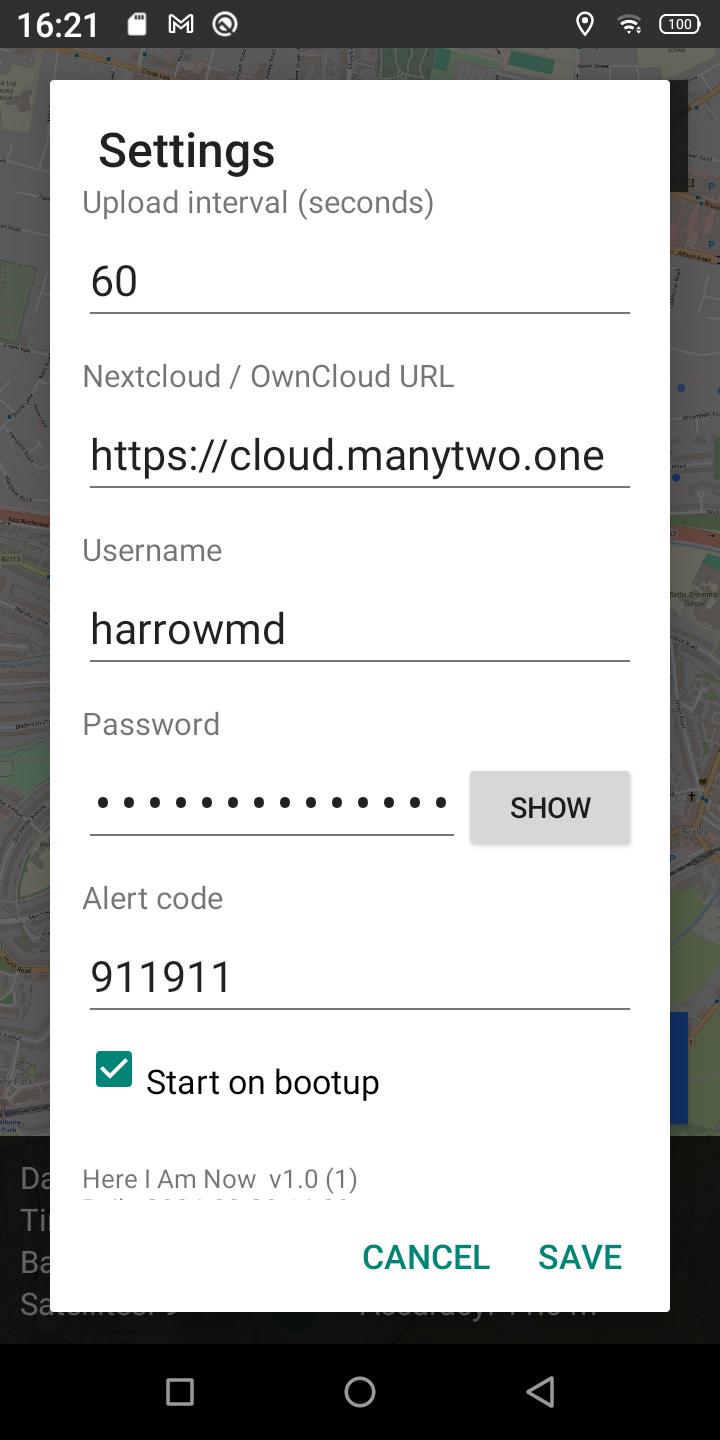
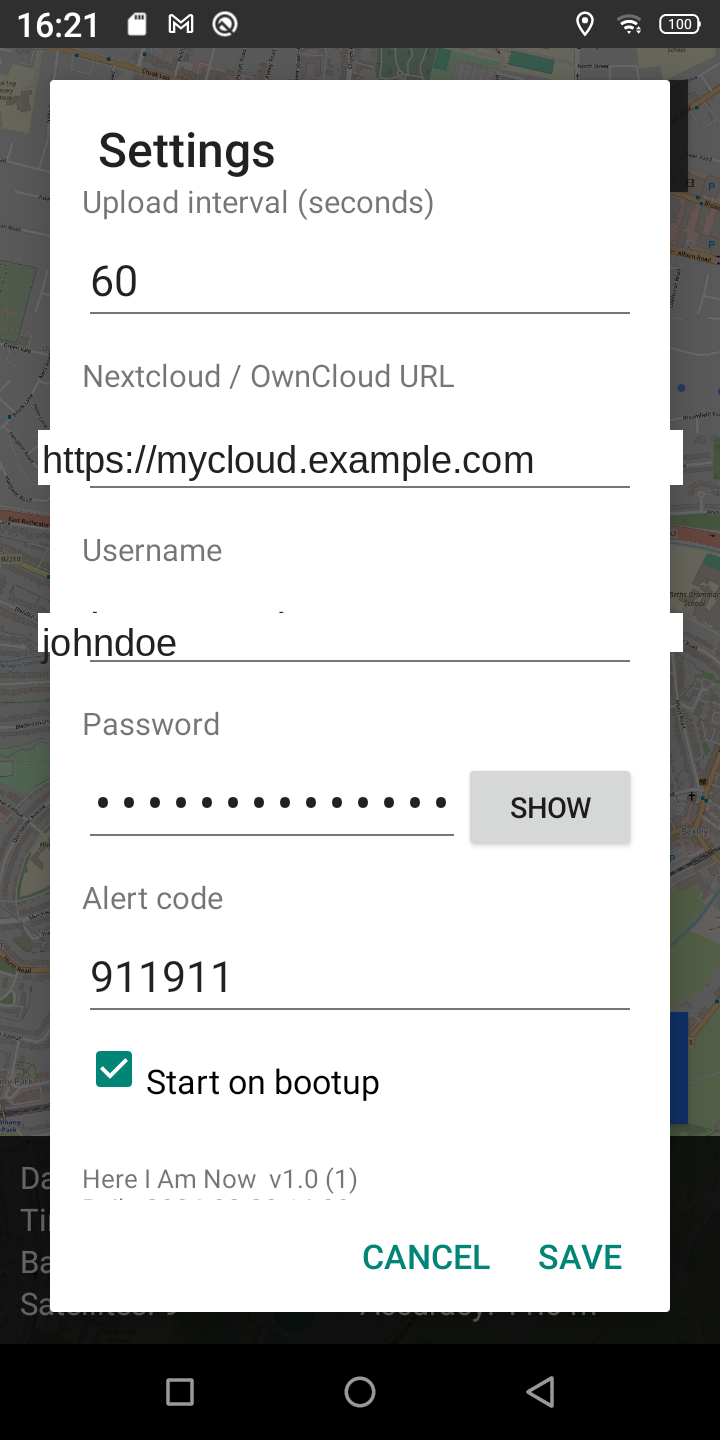
Update USERGUIDE: Marine mode, auto-recentre, new CSV columns; anonymise settings screenshots (v2.2)
- Section 3: expanded Data Overlay to cover Land vs Marine mode fields
  (Course/Depth replace Ascent/Alt in Marine; each field documented)
- Section 4: document auto-recentre (10% edge threshold) and OpenSeaMap tiles
- Section 5: add Map type setting with Land/Marine table and description
- Section 5: update Display period to mention Course
- Section 6: update CSV to 15-column format with full column table
- Build info: bump to v2.2 (13)
- screen_settings.png / screen_settings2.png: replace cloud.manytwo.one
  with mycloud.example.com and harrowmd with johndoe

diff --git a/HelloWorld/USERGUIDE.md b/HelloWorld/USERGUIDE.md
@@ -70,15 +70,27 @@ current coordinates. This keeps the background service alive.
 
 ## 3. Data Overlay
 
-A semi-transparent bar at the bottom of the screen shows live data.
-The three columns are updated at each **Update interval**:
+A semi-transparent bar at the bottom of the screen shows live data updated
+at each **Update interval**. The fields shown depend on the **Map type**
+setting.
+
+### Land mode (default)
 
 | Left column | Centre column | Right column (right-justified) |
 |-------------|---------------|-------------------------------|
 | `Dist: X.XX km` | Latitude | "What3Words" |
 | `Speed: X.X km/h` | Longitude | word 1 |
-| `Ascent: X m` | Altitude (m, integer) | word 2 |
-| Satellites in fix | Accuracy (m, integer) | word 3 |
+| `Ascent: X m` | Altitude (m) | word 2 |
+| Satellites in fix | Accuracy (m) | word 3 |
+
+### Marine mode
+
+| Left column | Centre column | Right column (right-justified) |
+|-------------|---------------|-------------------------------|
+| `Dist: X.XX km` | Latitude | "What3Words" |
+| `Speed: X.X km/h` | Longitude | word 1 |
+| `Course: XXX°` | Depth (m) | word 2 |
+| Satellites in fix | Accuracy (m) | word 3 |
 
 ### Dist (distance)
 Total distance in kilometres between consecutive GPS fixes recorded within
@@ -89,10 +101,24 @@ Resets when the service is restarted or when the display period rolls over.
 Average speed over the display period: **Dist ÷ Display period (hours)**,
 shown in km/h. This is a session-average speed, not instantaneous speed.
 
-### Ascent
+### Ascent *(Land mode only)*
 Cumulative altitude climbed (metres) within the display period. Only upward
 altitude changes of 5 m or more are counted, filtering out GPS altitude noise.
 Descents are ignored.
+
+### Alt *(Land mode only)*
+Altitude above sea level in metres, from the current GPS fix.
+
+### Course *(Marine mode only)*
+Average bearing in degrees (000°–360°) computed from the last four logged GPS
+positions using vector-averaged bearings. Shows `--` until at least two
+positions have been logged.
+
+### Depth *(Marine mode only)*
+Sea depth in metres, fetched from the GEBCO global bathymetric dataset via
+[opentopodata.org](https://api.opentopodata.org). Fetched at most once every
+15 minutes to respect the public API rate limit. Shows `--` on land, in
+shallow waters with no data, or when the lookup is unavailable.
 
 > Battery percentage is **not** shown on screen but is still recorded in the
 > log files at every GPS fix.
@@ -120,8 +146,12 @@ The blue location dot moves independently of the map centre — if you pan
 away to look at another area, the dot continues to show your real position.
 Tap ⊕ to return the view to your location.
 
-Map tiles are fetched from **OpenStreetMap** over the internet and cached
-while the app is running.
+**Auto-recentre:** while the app is in the foreground, the map automatically
+snaps back to your position whenever the GPS dot comes within 10% of any
+screen edge. This keeps you on screen without any manual interaction.
+
+Map tiles are fetched from **OpenStreetMap** (and **OpenSeaMap** in Marine
+mode) over the internet and cached while the app is running.
 
 **Pinch zoom tile loading:** while your fingers are on the screen the
 existing map tiles scale smoothly. New higher-resolution tiles are only
@@ -198,8 +228,8 @@ How far back in time the map trail of small blue dots extends.
 Default: `12` hours.
 
 This setting also defines the time window used to calculate **Dist**,
-**Speed**, and **Ascent** in the data overlay. Changing this value and
-tapping **Save** updates the map and all three figures immediately.
+**Speed**, **Ascent**, and **Course** in the data overlay. Changing this
+value and tapping **Save** updates the map and all figures immediately.
 
 ### Num GPS fixes
 How many GPS samples to collect and average for each logged position.
@@ -230,6 +260,21 @@ Default: `None` (no line, dots only).
 
 The line is drawn beneath the dots so the dots remain clearly visible.
 The selected colour is saved and restored when the app restarts.
+
+### Map type
+Controls the map tile source and the data overlay fields.
+
+| Option | Map tiles | Data overlay |
+|--------|-----------|--------------|
+| **Land** (default) | OpenStreetMap only | Ascent + Alt |
+| **Marine** | OSM base + OpenSeaMap nautical overlay | Course + Depth |
+
+In **Marine** mode a transparent nautical layer from
+[OpenSeaMap](https://www.openseamap.org) is rendered on top of the standard
+OSM base map, adding buoys, lights, depth contours, harbour marks, and other
+seamarks. The data overlay switches to show **Course** (average bearing from
+the last four GPS fixes) and **Depth** (GEBCO bathymetric data, fetched at
+most every 15 minutes).
 
 ### Log file retention (days)
 How many days of log files to keep, both on the device and on Nextcloud.
@@ -284,7 +329,7 @@ folder (`Internal Storage / Documents`):
 
 | File | Format | Contents |
 |------|--------|----------|
-| `YYYY-MM-DD-hia.csv` | CSV | One row per GPS fix: timestamp, lat, lon, alt, accuracy, satellites, battery, What3Words link |
+| `YYYY-MM-DD-hia.csv` | CSV | One row per GPS fix — 15 columns including position, derived metrics, and What3Words |
 | `YYYY-MM-DD-hia.gpx` | GPX 1.1 | GPS track, suitable for mapping software and OSM GPS Traces |
 | `YYYY-MM-DD-hia.kml` | KML 2.2 | GPS track with both a route line and individual waypoints |
 | `YYYY-MM-DD-hia.txt` | Plain text | Debug and status log, including What3Words lookup results |
@@ -296,13 +341,32 @@ and Nextcloud.
 ### CSV format
 
 ```
-timestamp,date,time,latitude,longitude,altitude_m,accuracy_m,satellites,battery_pct,what3words
-2026-02-28 14:18:40,2026-02-28,14:18:40,51.444040,0.143970,-149.0,16.1,6,100,https://w3w.co/word1.word2.word3
+timestamp,date,time,latitude,longitude,distance_km,speed_kmh,course_deg,depth_m,altitude_m,ascent_m,accuracy_m,satellites,battery_pct,what3words
[phone redacted]:18:40,2026-02-28,14:18:40,51.444040,0.143970,1.24,0.1,247.3,,42.0,8.5,5.2,7,85,https://w3w.co/word1.word2.word3
 ```
 
-The `what3words` column contains a clickable link in the format
-`https://w3w.co/word1.word2.word3`. The cell is empty if the lookup failed
-or has not yet completed for that fix.
+| Column | Description |
+|--------|-------------|
+| `timestamp` | Full date and time of the fix (`YYYY-MM-DD HH:MM:SS`) |
+| `date` | Date only |
+| `time` | Time only |
+| `latitude` | Decimal degrees |
+| `longitude` | Decimal degrees |
+| `distance_km` | Cumulative distance within the display period (km) |
+| `speed_kmh` | Average speed over the display period (km/h) |
+| `course_deg` | Average bearing in degrees (000–360); empty until 2 fixes logged |
+| `depth_m` | Sea depth from GEBCO (m); empty on land or if unavailable |
+| `altitude_m` | GPS altitude above sea level (m) |
+| `ascent_m` | Cumulative ascent within the display period (m) |
+| `accuracy_m` | GPS horizontal accuracy (m) |
+| `satellites` | Number of satellites used in fix |
+| `battery_pct` | Battery percentage |
+| `what3words` | `https://w3w.co/word1.word2.word3` link; empty if lookup failed |
+
+The `course_deg` and `depth_m` columns are populated in Marine mode; they
+are empty (but present) in Land mode. All derived columns (`distance_km`,
+`speed_kmh`, `course_deg`, `ascent_m`) reflect values computed at the time
+of the fix after the previous interval's data was processed.
 
 ### GPX format
 
@@ -520,9 +584,9 @@ The app version, build date, and update status are shown at the bottom
 of the Settings dialog, for example:
 
 ```
-Here I Am Now  v2.1 (12)
-Built: 2026-04-11 17:00
-Up to date (v2.1)
+Here I Am Now  v2.2 (13)
+Built: 2026-05-02 18:09
+Up to date (v2.2)
 ```
 
 Source code and releases: https://github.com/harrowmd/m21hereiam